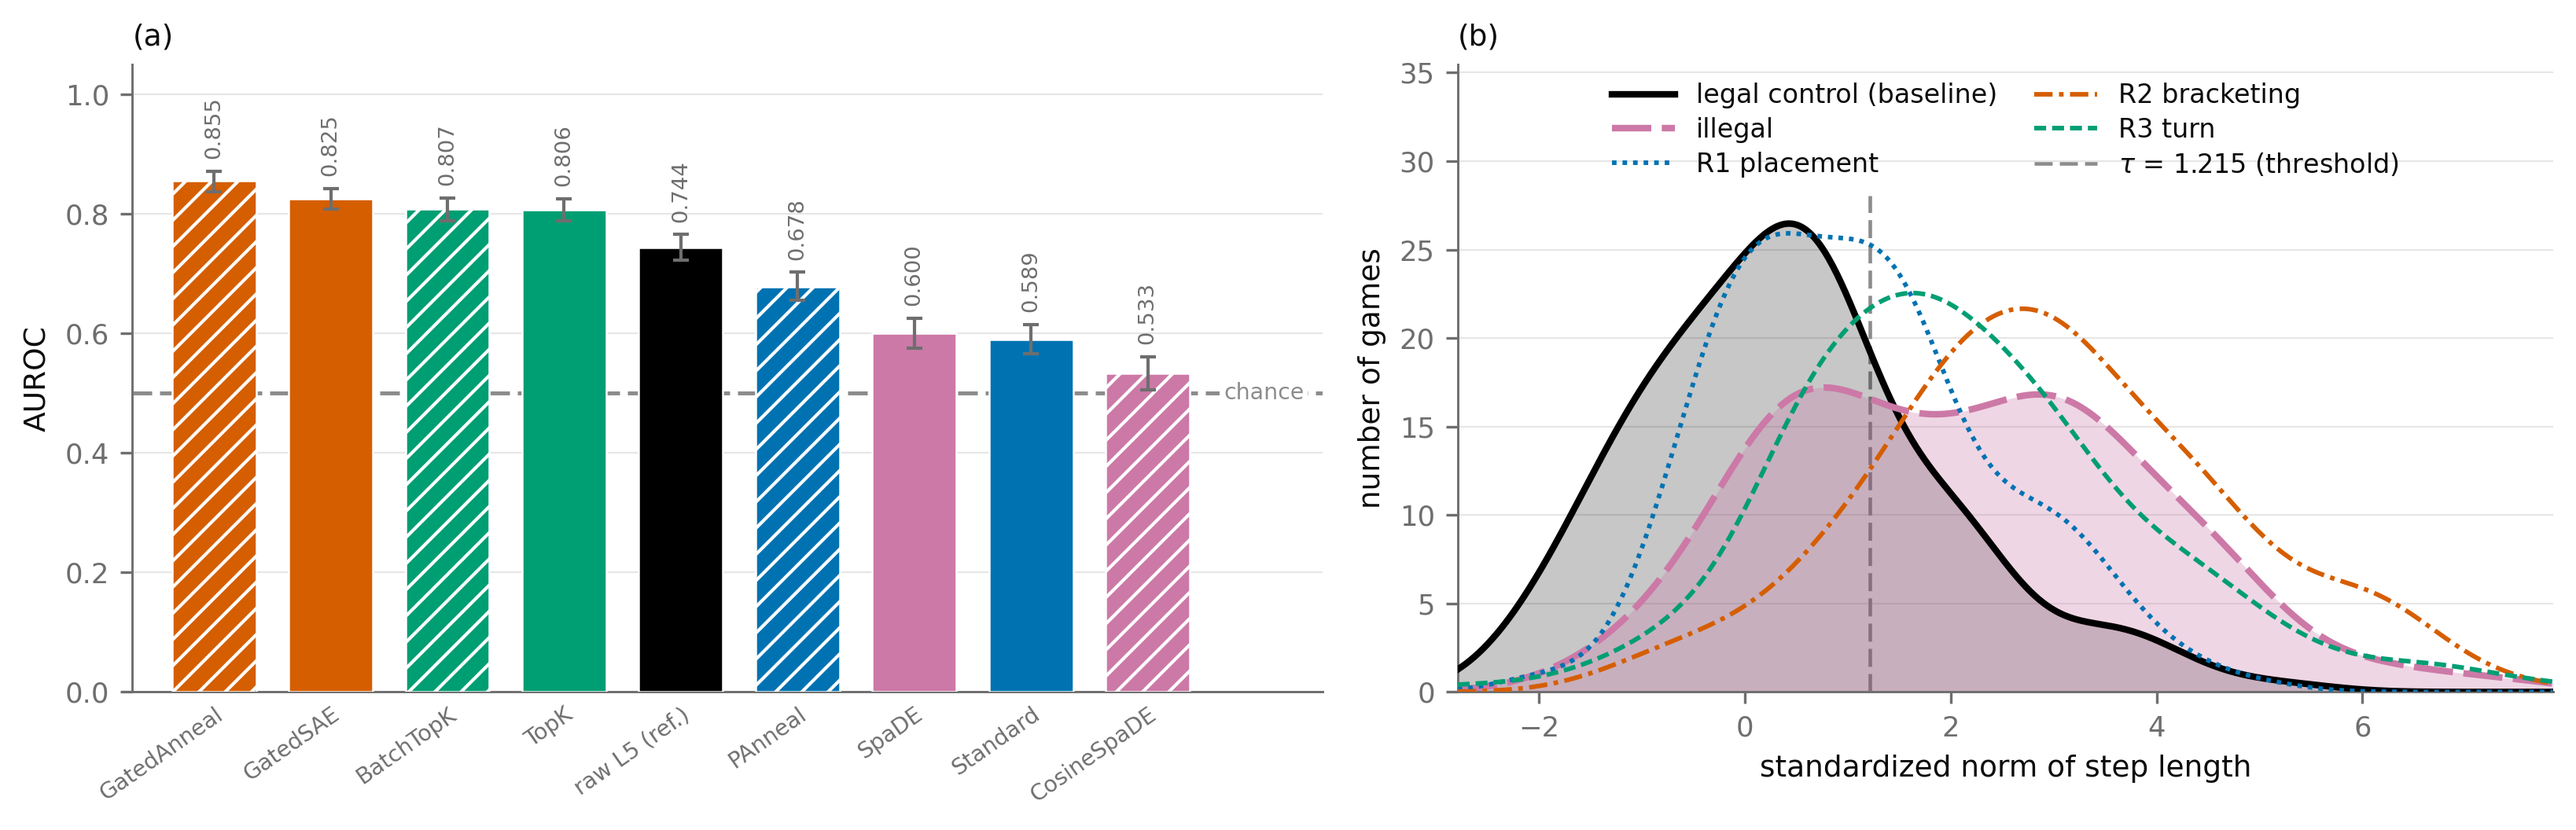
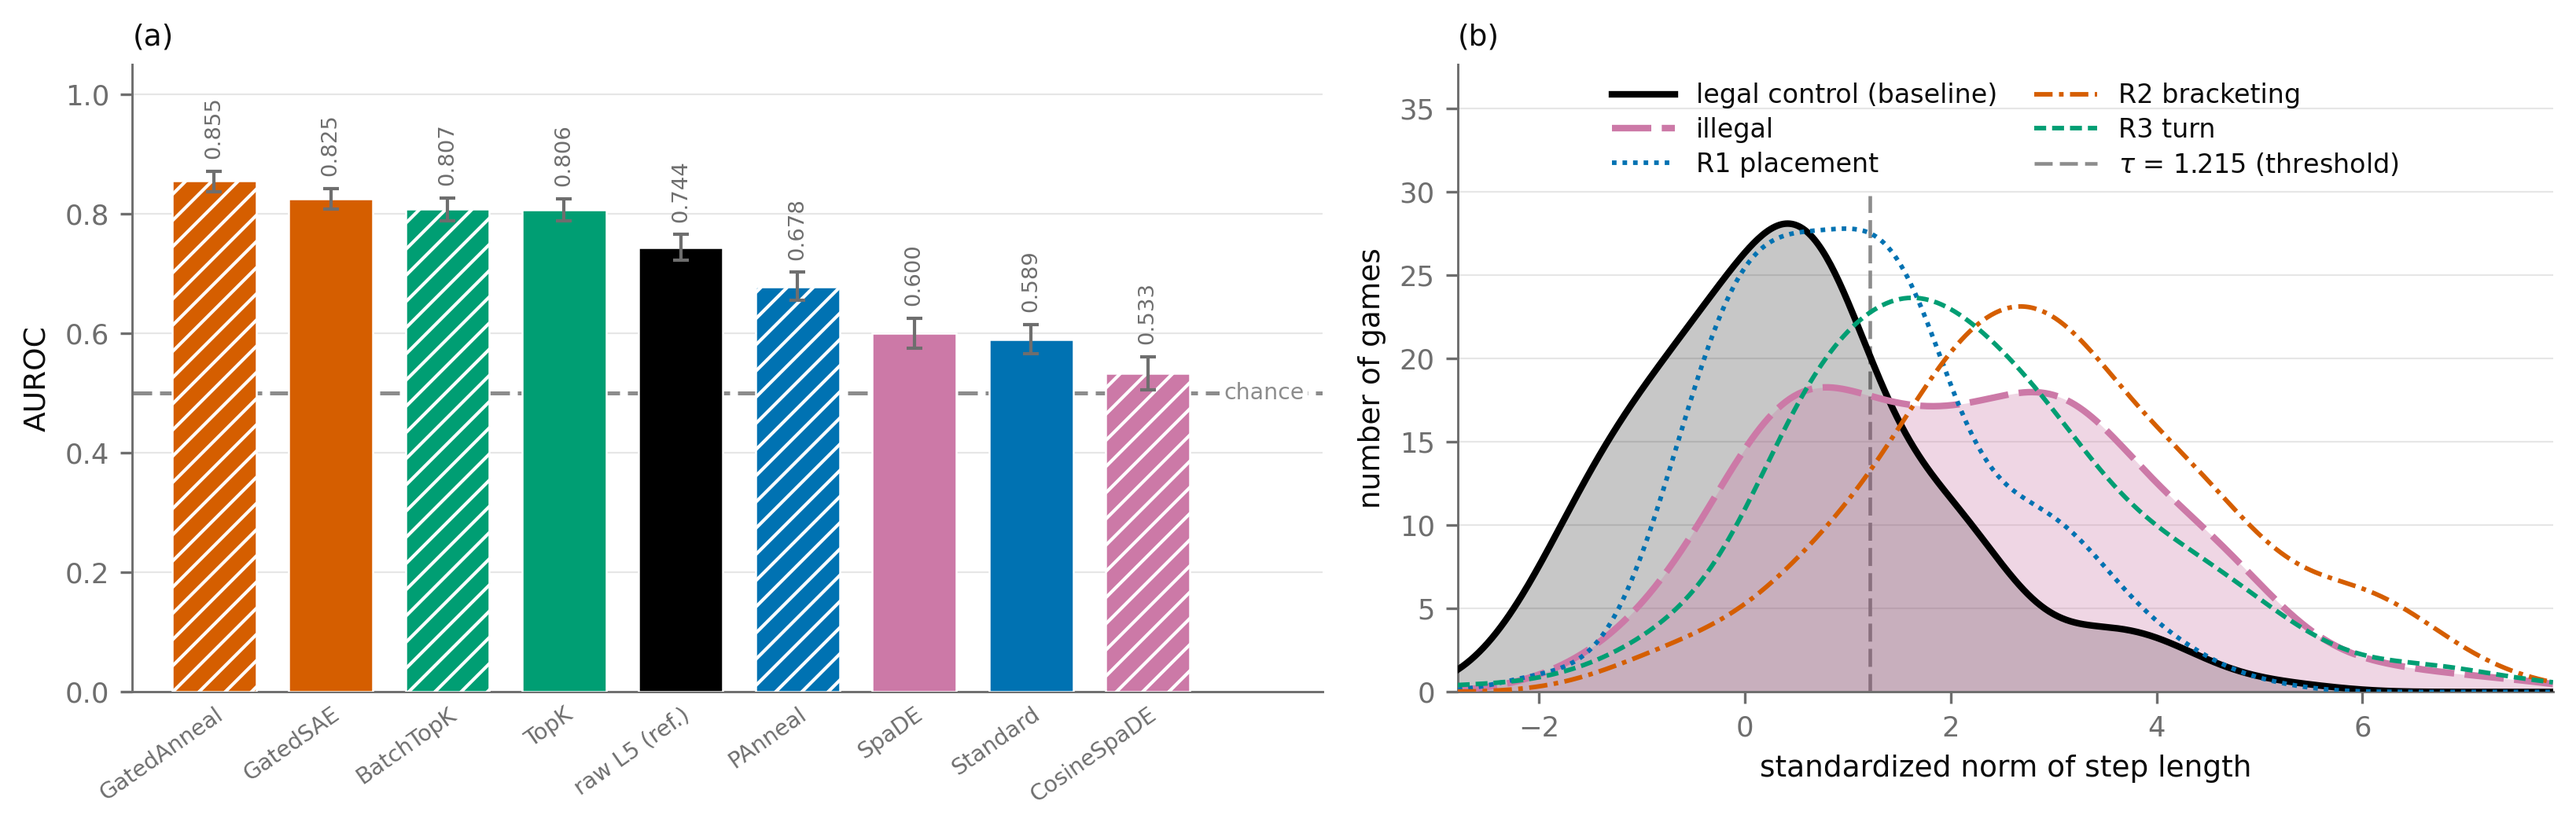
Put GatedAnneal's score distributions beside the per-space AUROC
threshold_detection is now the AUROC bars against the densities of the space they
rank first, rather than AUROC against a second bar chart. The two panels are the
same claim at two magnifications: (a) says GatedAnneal orders positions best, (b)
says that even there the cut sits inside the overlap.

(b) calls illegal_move_detector.figure_histograms.panel rather than reimplementing
it, so it inherits that figure's evaluation set and styling and cannot drift from
it -- which meant splitting panel() out of draw() there, verified byte-identical
on the raw figure afterwards.

GatedAnneal's step lengths did not exist for this corpus, so extract_geometry.py
takes --spaces and writes one npz per space beside raw's. Also drops the strapline
and shortens the y label to AUROC. The regenerated figure keeps the old layout and
is unchanged.

diff --git a/analysis/violation_divergence/changepoint_localization/README.md b/analysis/violation_divergence/changepoint_localization/README.md
@@ -212,7 +212,7 @@ every space: at 1-2% prevalence the accuracy-maximizing cut flags almost nothing
 against legal ones, over the nine spaces; (b) the five score distributions at *t0* that AUROC
 summarizes, in **GatedAnneal**, the space (a) ranks first. (b) is drawn by
 `illegal_move_detector.figure_histograms.panel` -- the same code that figure uses, so the two
-cannot drift -- and inherits its evaluation set: 189 games per class, nine at every *t0*.
+cannot drift -- and inherits its evaluation set: 200 games per class, dealt uniformly over `t0`.
 Reading them together is the point: the bar chart says which space orders positions best, and
 the densities say that even there the cut sits inside the overlap rather than between two
 separated classes.
